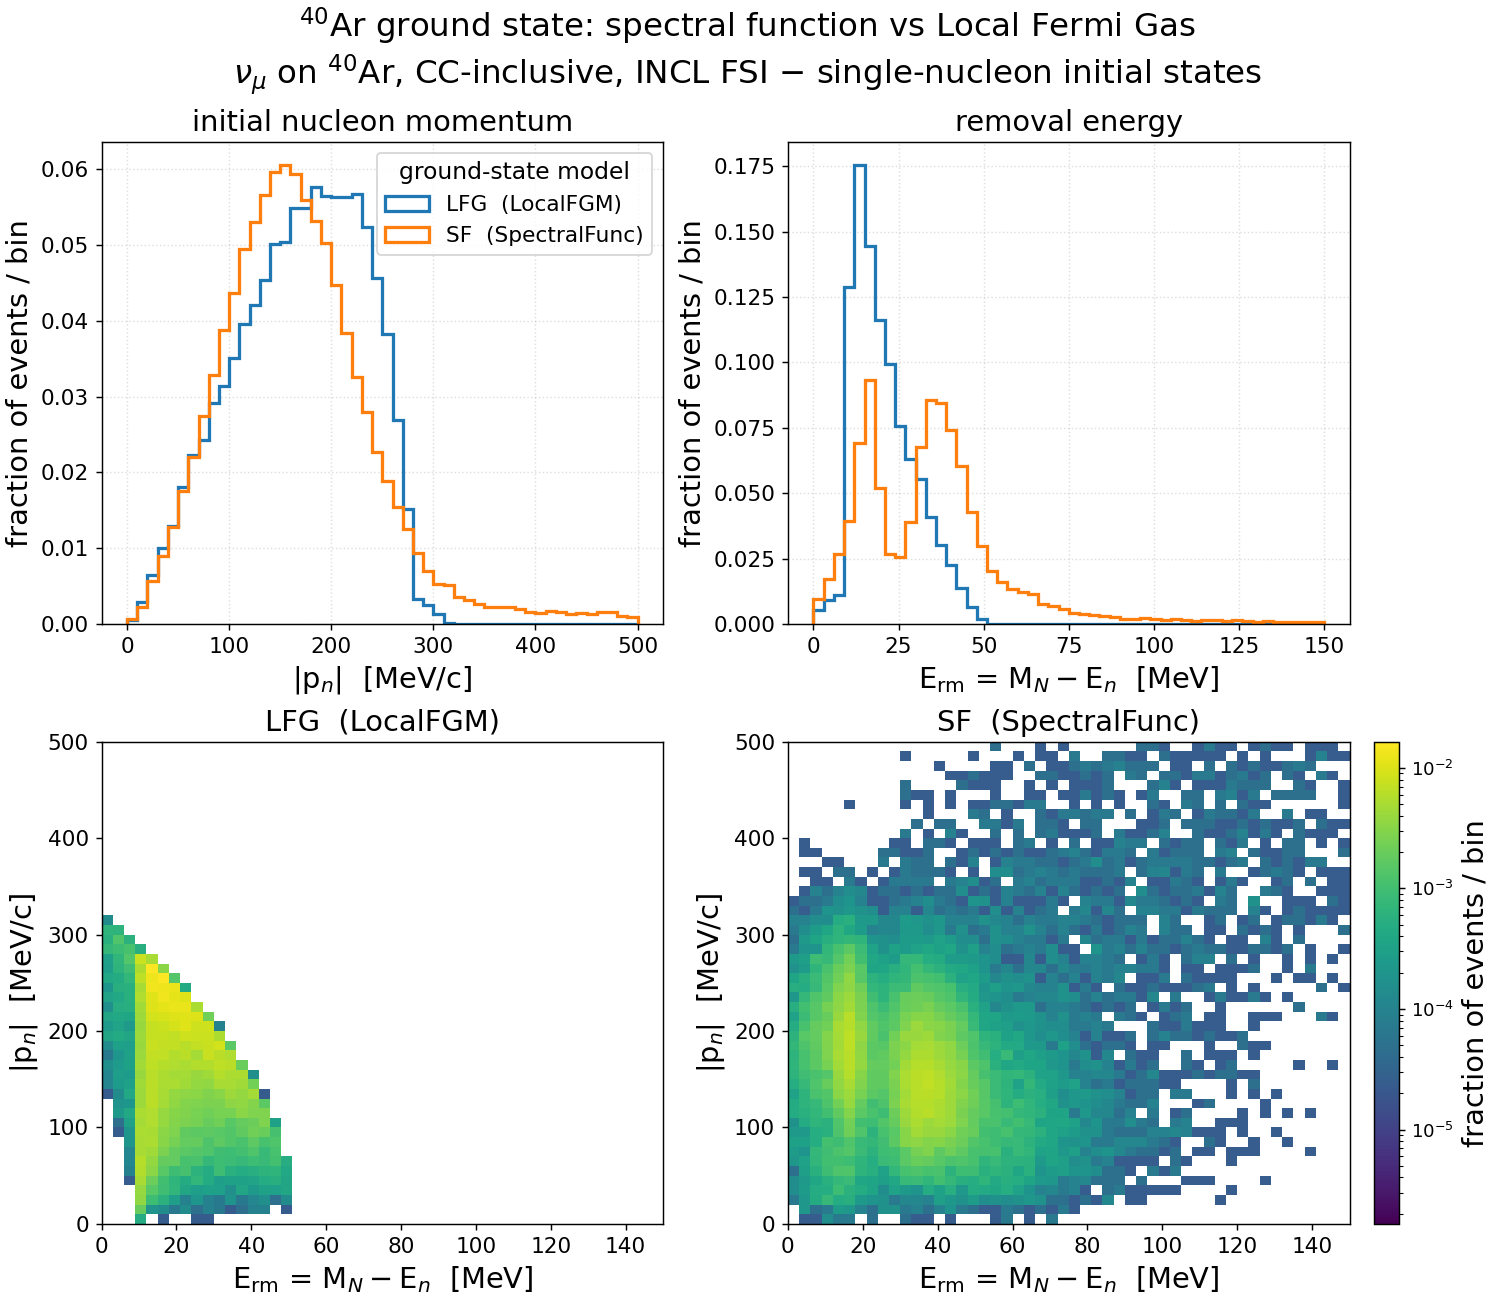
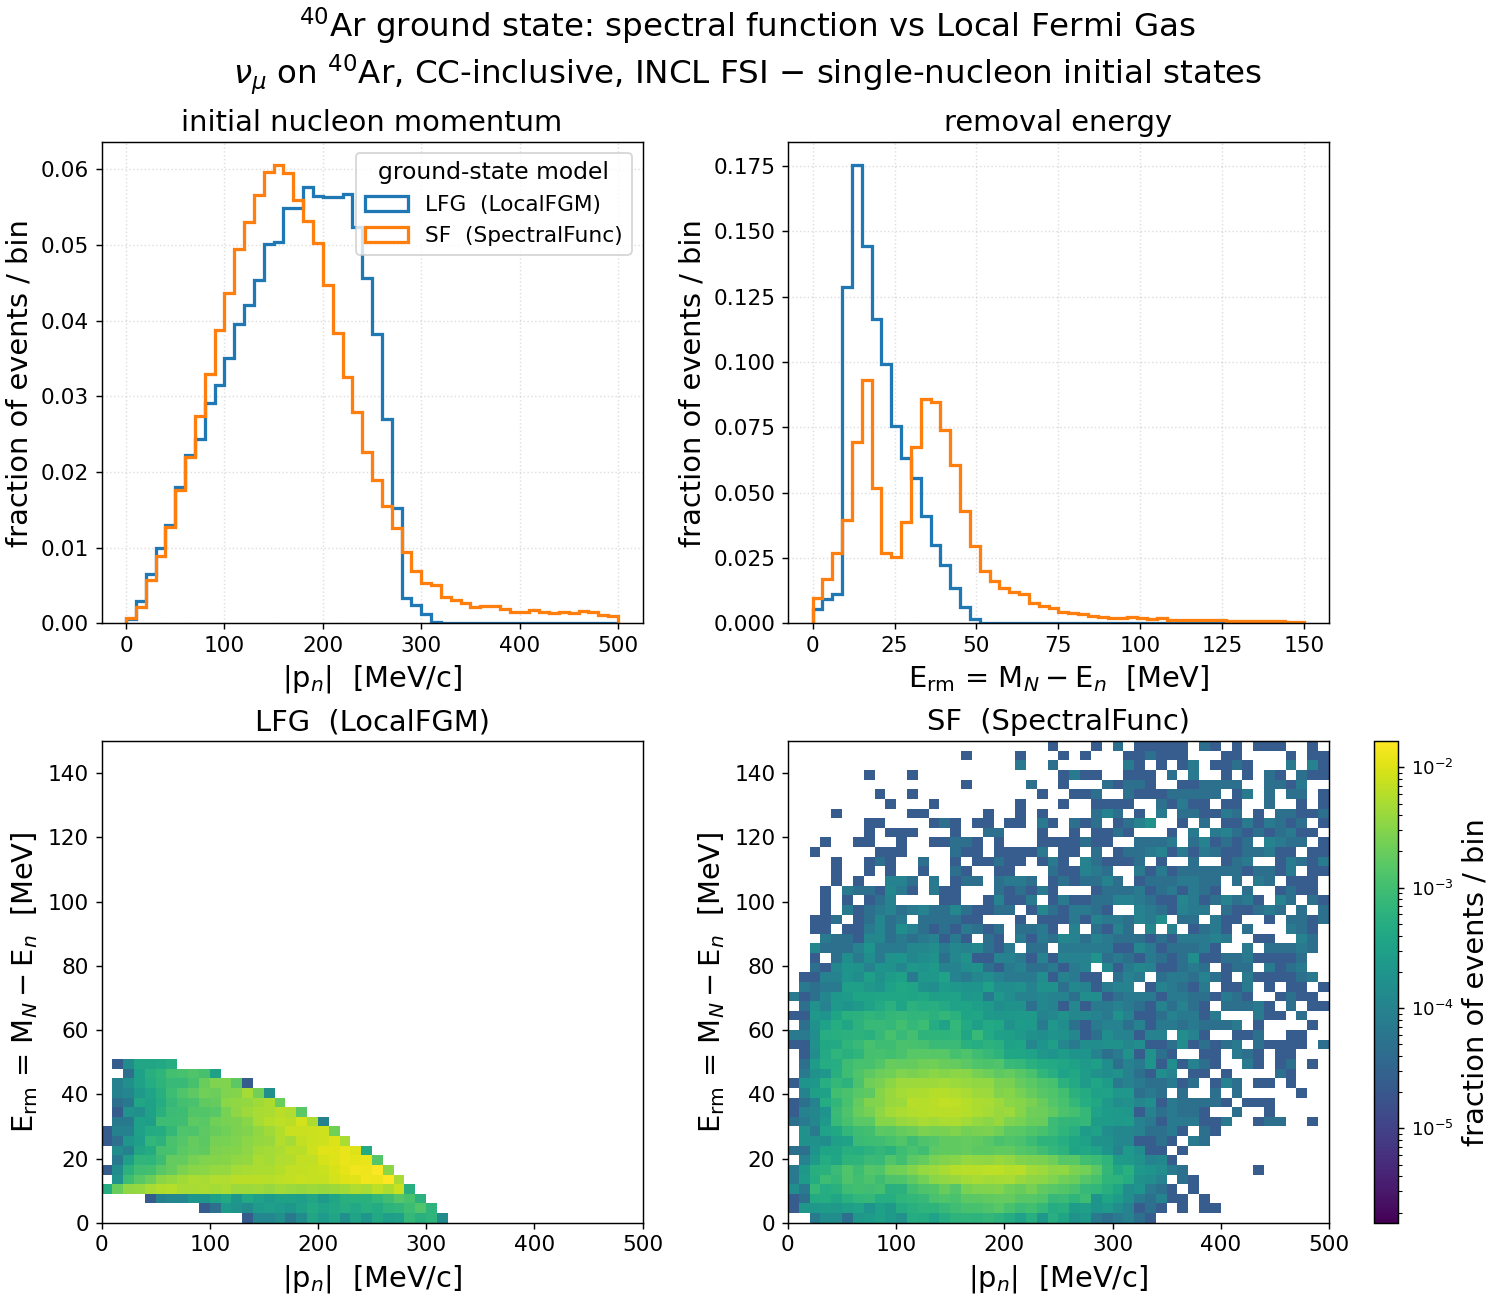
results: swap 2D axes in groundstate panel (|p_n| on x, E_rm on y)
Bottom-row 2D panels now plot |p_n| on x and removal energy E_rm=M_N-E_n
on y, aligning their x-axis with the top-left 1D momentum panel.

diff --git a/results/template/make_groundstate_panel_incl_sf_lfg.py b/results/template/make_groundstate_panel_incl_sf_lfg.py
@@ -54,7 +54,7 @@ DATA = {tag: load(tag) for tag, _, _ in SERIES}
 H2D, vmax = {}, 0.0
 for tag, _, _ in SERIES:
     p, erm = DATA[tag]
-    H, _, _ = np.histogram2d(erm, p, bins=[EBINS, PBINS])
+    H, _, _ = np.histogram2d(p, erm, bins=[PBINS, EBINS])  # x=|p_n|, y=E_rm
     H = H / H.sum()
     H2D[tag] = H
     vmax = max(vmax, H.max())
@@ -88,14 +88,14 @@ ax_e.set_ylabel("fraction of events / bin", fontsize=FS_LABEL)
 
 # --- bottom row: 2D P(|p|,E) ----------------------------------------------
 norm = LogNorm(vmin=vmax * 1e-4, vmax=vmax)
-Xe, Ye = np.meshgrid(EBINS, PBINS, indexing="ij")
+Xe, Ye = np.meshgrid(PBINS, EBINS, indexing="ij")
 pc = None
 for ax, (tag, label, _) in zip((ax2_lfg, ax2_sf), SERIES):
     Z = np.ma.masked_less_equal(H2D[tag], 0.0)
     pc = ax.pcolormesh(Xe, Ye, Z, cmap="viridis", norm=norm)
     ax.set_title(label, fontsize=FS_TITLE)
-    ax.set_xlabel(r"E$_\mathrm{rm}$ = M$_N-$E$_n$  [MeV]", fontsize=FS_LABEL)
-    ax.set_ylabel(r"|p$_n$|  [MeV/c]", fontsize=FS_LABEL)
+    ax.set_xlabel(r"|p$_n$|  [MeV/c]", fontsize=FS_LABEL)
+    ax.set_ylabel(r"E$_\mathrm{rm}$ = M$_N-$E$_n$  [MeV]", fontsize=FS_LABEL)
     ax.tick_params(labelsize=FS_TICK)
 cb = fig.colorbar(pc, ax=(ax2_lfg, ax2_sf), pad=0.02, fraction=0.046)
 cb.set_label("fraction of events / bin", fontsize=FS_TITLE)
